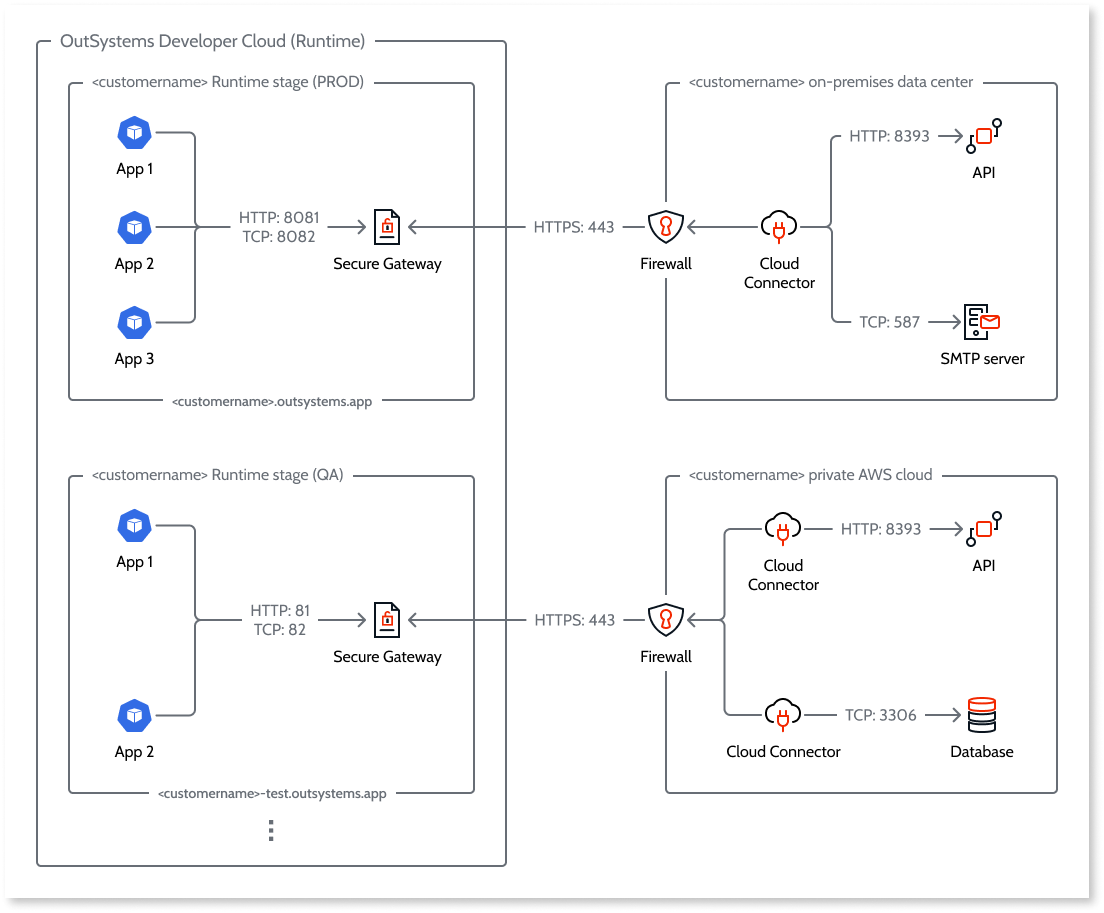
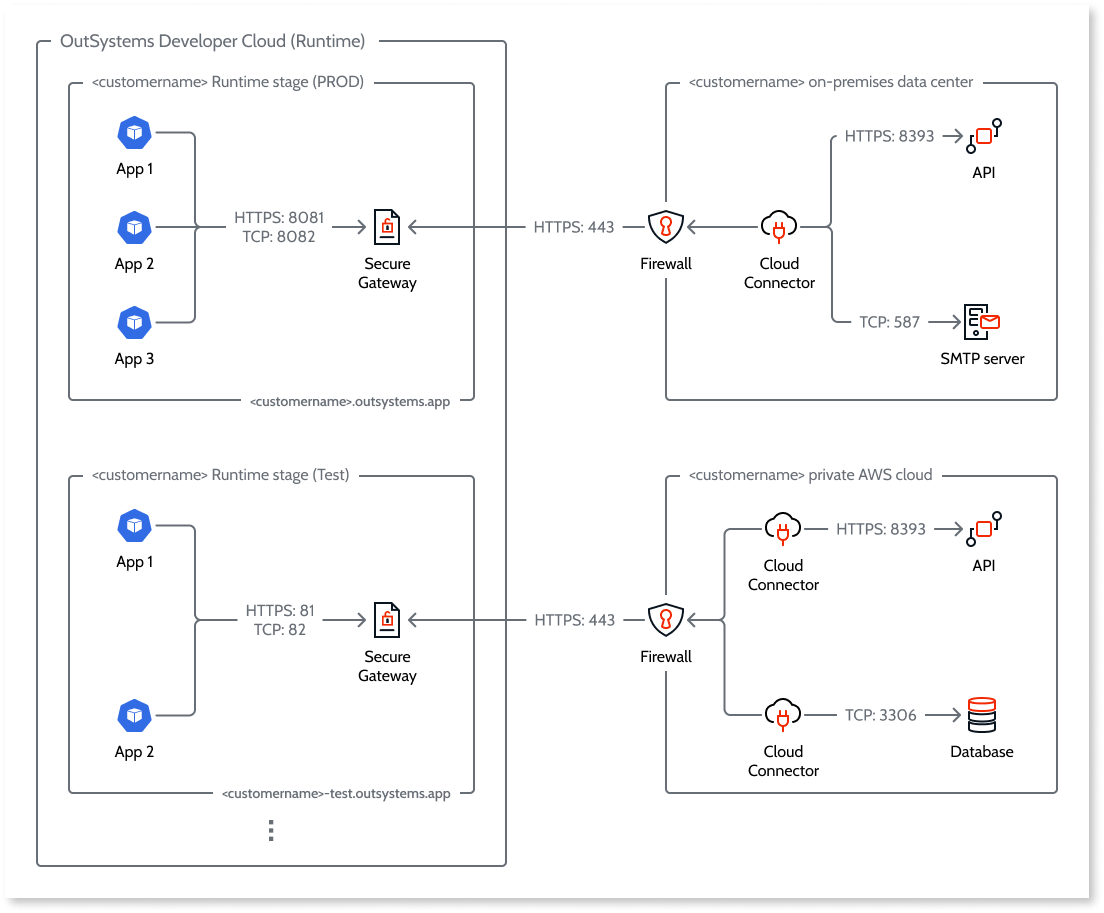
Add support for HTTPs endpoints to secure-gateways.md

diff --git a/src/eap/configuration-management/secure-gateway.md b/src/eap/configuration-management/secure-gateway.md
@@ -45,8 +45,8 @@ For each Secure Gateway, a list of connected endpoint(s) of the form `secure-gat
 
 You use these addresses as you would use a public internet address in app development in ODC Studio.
 
-For example, to add multiple REST API methods from a service hello at the address `secure-gateway:8081`, you would input the URL as `http://secure-gateway:8081/hello`:
+For example, to add multiple REST API methods from a service hello at the address `secure-gateway:8081`, you would input the URL as `https://secure-gateway:8081/hello`:
 
-![Consume REST API methods](images/consume-REST-API-methods-ss.png "Consume REST API methods")
+![Consume REST API methods](images/consume-REST-API-methods-odcs.png "Consume REST API methods")
 
 When you click **Add methods**, ODC retrieves the swagger specification from the connected endpoint.
